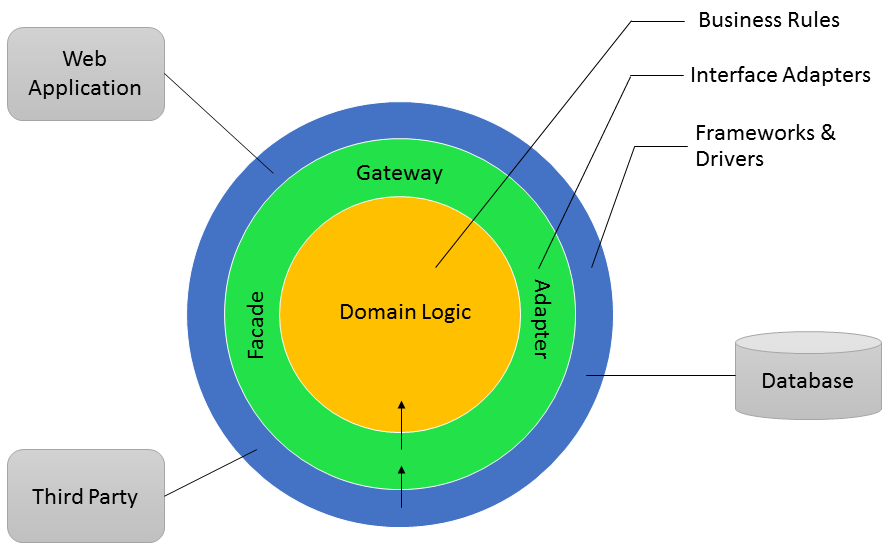
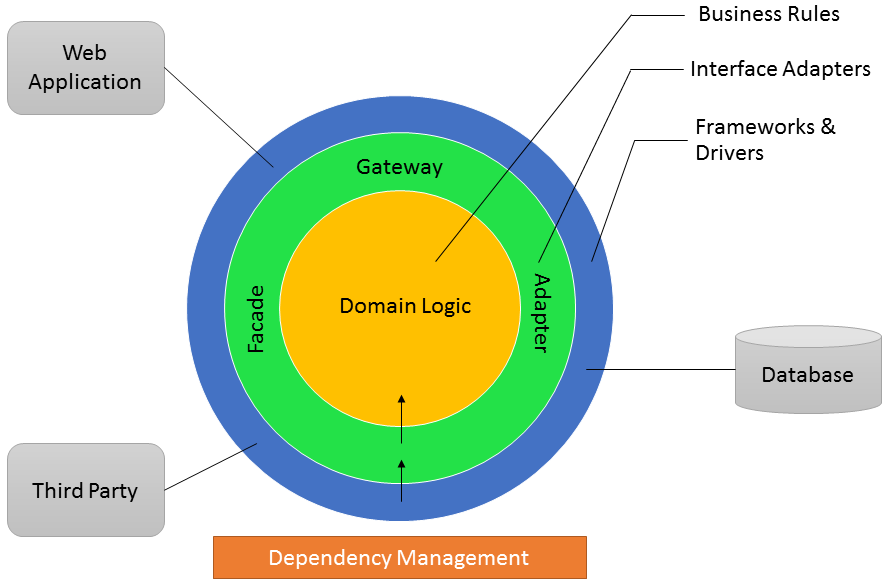
Added dependency management to slides.

diff --git a/CleanArchitecture20170314.html b/CleanArchitecture20170314.html
@@ -31,10 +31,28 @@
 				</section>
 
 				<section>
+					<h2>Web Ex</h2>
+					<ul>
+						<li>Ask questions though chat</li>
+						<li>Please mute your phones</li>
+						<li>We will share recording</li>
+					</ul>
+				</section>
+
+				<section>
+					<h2>1 of 2 Brownbags</h2>
+					<ol>
+						<li>Clean Architecture</li>
+						<li>IoC Containers with Structuremap</li>
+					</ol>
+				</section>
+
+				<section>
 					<h2>The Plan</h2>
 					<ol>
 						<li>N-Tier Applications</li>
-						<li>Dependency Inversion Principal</li>
+						<li>SOLID Principles</li>
+						<li>Dependency Inversion Principle</li>
 						<li>Clean Architecture</li>
 						<li>Switching to Clean Architecture</li>
 					</ol>
@@ -42,12 +60,68 @@
 
 				<section>
 					<section>
+						<h2>Terms</h2>
+					</section>
+
+					<section>
+						<h3>Service Oriented Architecture</h3>
+
+						<aside class="notes">
+							<ul>
+								<li>Has guide lines on how we create a single application.</li>
+								<li>Guide lines no how we would organize ALL applications.</li>
+								<li>Guide lines on system to system communication.</li>
+								<li>Enterprise strategy for our products.</li>
+								<li>We will be introducing more SOA concepts and SOA terminology</li>
+							</ul>
+						</aside>
+					</section>
+
+					<section>
+						<h3>System</h3>
+						<p>A collection of artifacts that make a deploy-able unit.</p>
+
+						<aside class="notes">
+							<ul>
+								<li>Use returns web as example.</li>
+							</ul>
+						</aside>
+					</section>
+
+					<section>
+						<h3>Architectural Style</h3>
+						<p>a coarse grained pattern that provides an abstract framework for a family of systems</p>
+						<small>-- Microsoft</small>
+
+						<aside class="notes">
+							<ul>
+								<li>N-Tier and Clean Arch are styles</li>
+								<li>A system may have multiple arch styles</li>
+							</ul>
+						</aside>
+
+					</section>
+				</section>
+
+				<section>
+					<section>
 						<h2>N-Tier Applications</h2>
 						<p><a href="http://www.c-sharpcorner.com/article/ado-net-from-windows-dna-perspective/" target="_blank">Windows DNA</a></p>
+						<aside class="notes">
+							<ul>
+								<li>Was the "correct" way to build applications from MS in the late 90s to early 2000s.</li>
+								<li>Each layer went on a different machine: distributed computing.</li>
+							</ul>
+						</aside>
 					</section>
 
 					<section>
 						<img src="images/Architecture20170314/Slide1.PNG" />
+						<aside class="notes">
+							<ul>
+								<li>Later we matured to add the business layer as a separate layer from the data layer.</li>
+							</ul>
+						</aside>
 					</section>
 
 					<section>
@@ -96,12 +170,15 @@
 							<ul>
 								<li>All focus shifts to the DB / third party.</li>
 								<li>The database IS the application.</li>
+								<li>We start using the DB as an integration point.  DB were not meant for this.</li>
+								<li>We put shared code in the DB: procs, views, functs</li>
 							</ul>
 						</aside>
 					</section>
 
 					<section>
 						<h3>We can do better.</h3>
+						<p>Dependency Inversion Principle (DIP)</p>
 						<aside class="notes">
 							<ul>
 								<li>But first we have to understand the DIP</li>
@@ -112,19 +189,46 @@
 
 				<section>
 					<section>
-						<h2>Dependency Inversion Principle (DIP)</h2>
+						<h2>SOLID Principles</h2>
+						<p>Quickly</p>
 					</section>
 
 					<section>
-						<h3>SOLID Principle</h3>
+						<img src="images/AgileSoftwareDev.jpg" />
+						<aside class="notes">
+							<ul>
+								<li>Robert Martin "Uncle Bob" created these.</li>
+								<li>Principles around object oriented programming.</li>
+								<li>When used together, improved the maintainability of a system.</li>
+							</ul>
+						</aside>
+					</section>
 
-						<ul>
-							<li>Single Responsibility Principles</li>
-							<li>Open / Closed Principle</li>
-							<li>Liskov Substitution Principle</li>
-							<li>Interface Segregation Principle</li>
-							<li><strong style="text-decoration: underline">Dependency Inversion Principle</strong></li>
-						</ul>
+					<section>
+						<h3>Single Responsibility Principle</h3>
+						<p>"A class should have only one reason to change."</p>
+						<small>-- Robert Martin</small>
+					</section>
+
+					<section>
+						<h3>Open / Closed Principle</h3>
+						<p>Software entities (classes, modules, functions, etc.) should be open for extension, but closed for modification</p>
+					</section>
+
+					<section>
+						<h3>Liskov Substitution Principle</h3>
+						<p>If S is a subtype of T, then objects of type T may be replaced with objects of type S without altering any of the desirable properties of T</p>
+					</section>
+
+					<section>
+						<h3>Interface Segregation Principle</h3>
+						<p>No client should be forced to depend on methods it does not use</p>
+					</section>
+				</section>
+
+				<section>
+					<section>
+						<h2>Dependency Inversion Principle (DIP)</h2>
 					</section>
 
 					<section>
@@ -190,6 +294,9 @@
 						<img src="images/Architecture20170314/Slide5.PNG" />
 						<aside class="notes">
 							<ul>
+								<li>Convert the boundary</li>
+								<li>Requires map between interfaces and concrete classes</li>
+								<li>Review direction of flow of control</li>
 							</ul>
 						</aside>
 					</section>
@@ -251,12 +358,33 @@
 					<section>
 						<h3>Organized by Business Rules</h3>
 						<img src="images/PortfolioServiceFolders.png" />
+
+						<aside class="notes">
+							<ul>
+								<li>Names are hard here</li>
+								<li>A possible way to start is with the story</li>
+							</ul>
+						</aside>
+
 					</section>
 
 					<section>
 						<h4>Domain Logic Patterns</h4>
 						<img src="images/PatternsOfenterpriseAppArch.jpg" />
 						<p><a href="https://www.martinfowler.com/eaaCatalog/" target="_blank">Online Catalog</a></p>
+					</section>
+
+					<section>
+						<h4>Dependency Management</h4>
+						<img src="images/Architecture20170314/Slide6.PNG" />
+						<aside class="notes">
+							<ul>
+								<li>Blue part may be mare of several modules.</li>
+								<li>During app start up.  Web does not know about data layer, third party code, or other frameworks.  Only knows about business inner laters</li>
+								<li>Need some code to map business layer to outer layer.</li>
+								<li>IoC containers are perfect for this.  Will cover next brownbag.</li>
+							</ul>
+						</aside>
 					</section>
 
 					<section>
